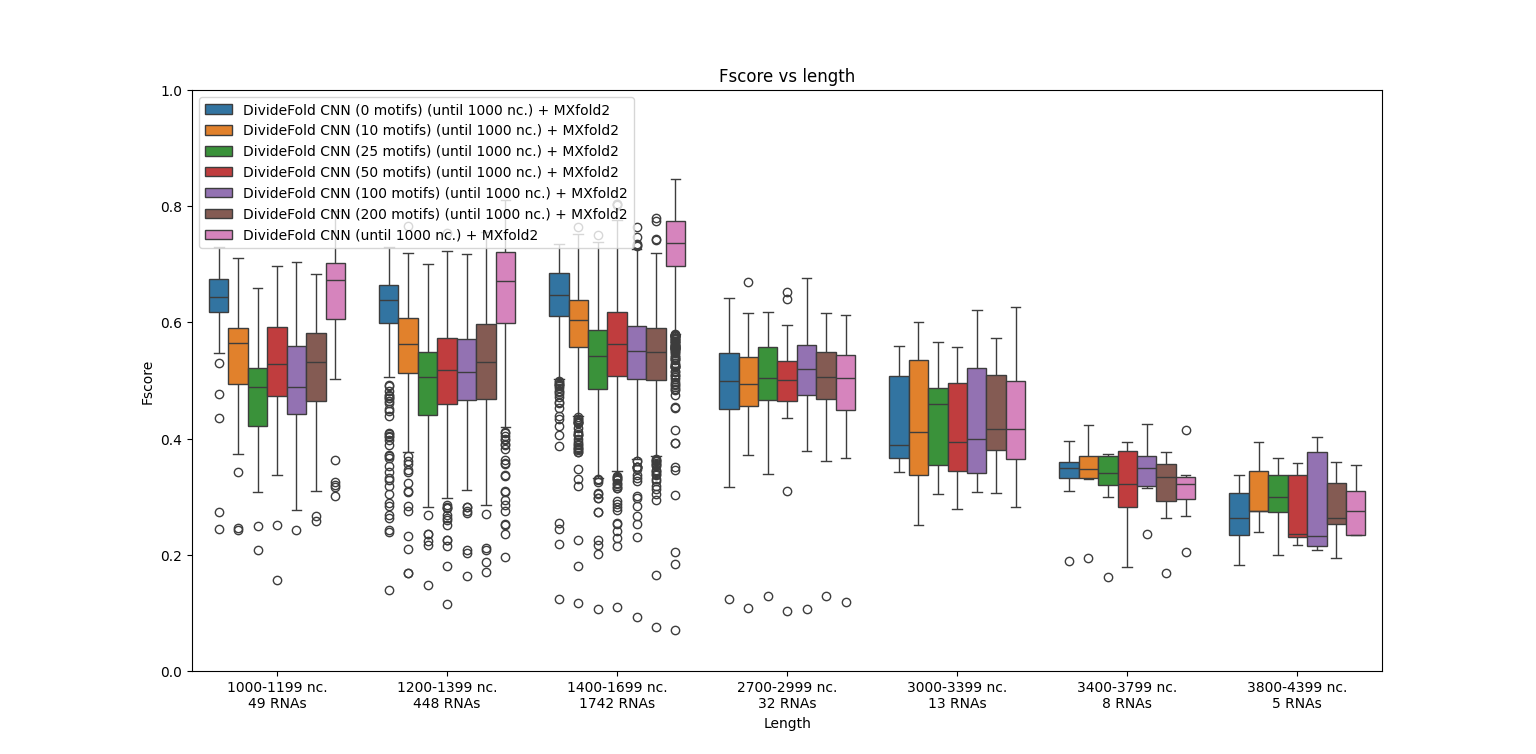
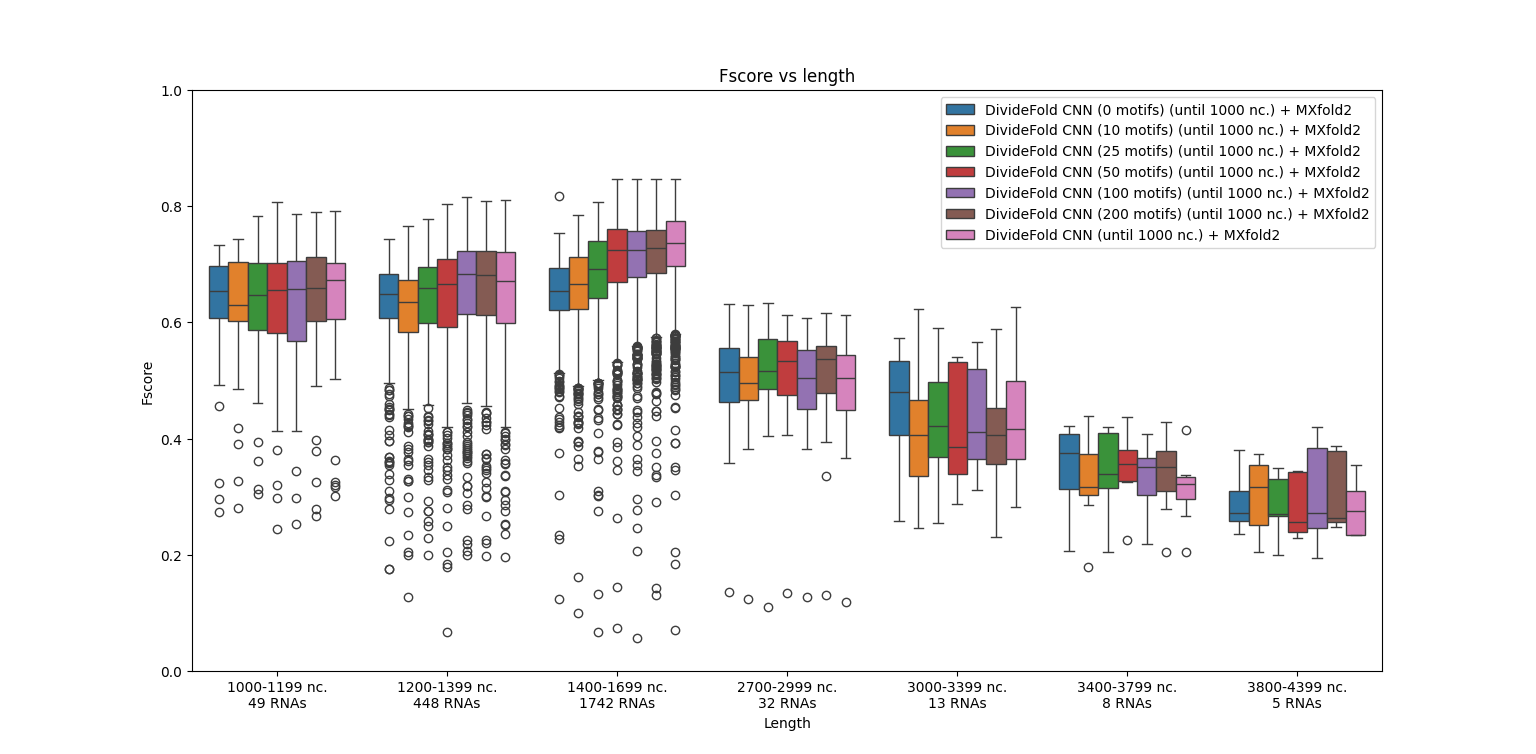
set 50 motifs as default behavior for the input

diff --git a/src/predict.py b/src/predict.py
@@ -29,7 +29,7 @@ from src.utils import format_data, eval_energy, get_scores
 from src.models.loss import inv_exp_distance_to_cut_loss
 
 cnn_cut_model = keras.models.load_model(
-    Path("resources/models/CNN1D_sequencewise"), compile=False
+    Path("resources/models/CNN1D_sequencewise_50motifs"), compile=False
 )
 cnn_cut_model.compile(
     optimizer="adam",
@@ -596,7 +596,7 @@ def divide_predict(
     multipred_kmax=20,
     cut_model=cnn_cut_model,
     predict_fnc=mxfold2_predict,
-    max_motifs=None,
+    max_motifs=50,
     struct="",
     cuts_path=None,
     rna_name="",
